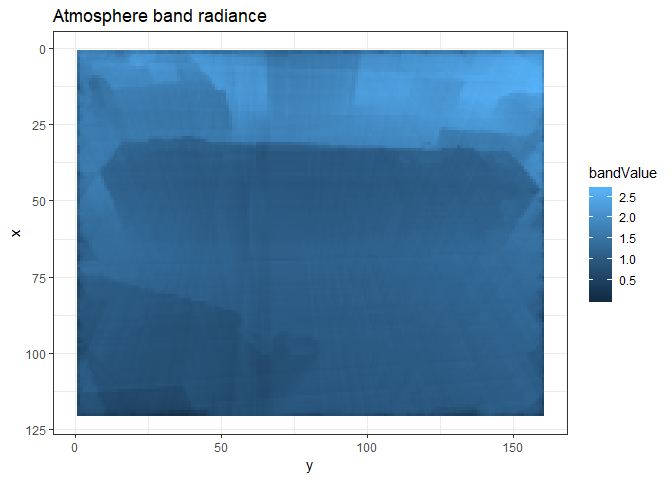
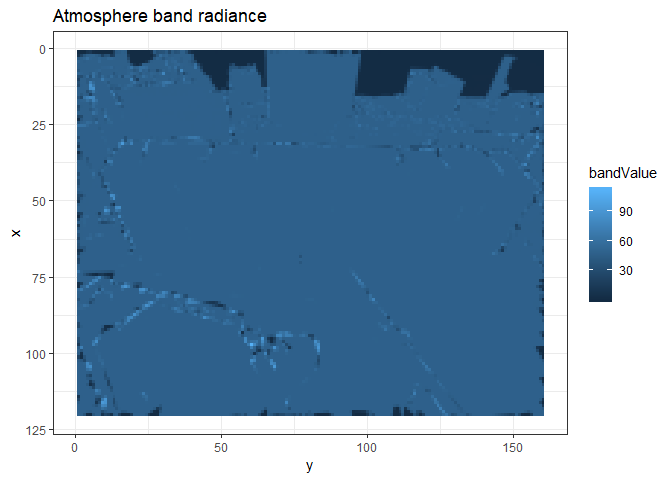
SRF

diff --git a/tutorials/Band-calculation/README.md b/tutorials/Band-calculation/README.md
@@ -13,7 +13,7 @@ sF_trans <- daRt::simulationFilter(product = "images", bands = integer(), iters 
                                    variables = "Tapp")
 sF_tapp <- sF_trans
 imageTypes(sF_tapp) <- "camera"
-typeNums(sF_tapp) <- "1_Fluid"
+typeNums(sF_tapp) <- ""# "1_Fluid"
 
 simData_transAtm <- daRt::getData(x = simDir, sF = sF_trans)
 simData_tappAtm <- daRt::getData(x = simDir, sF = sF_tapp)
@@ -26,7 +26,7 @@ radDF <- as.data.frame(simData_radAtm)
 
 Band calculation trapezoidal approximation:
 
-$$\int_{\lambda=1}^{\lambda=n} d\lambda~L_\lambda R_\lambda\approx\sum_{i=1}^n \frac{1}{2} \Bigg[\Big[\frac{1}{2}(\lambda_{max_{i}}-\lambda_{min_{i}}) \Big]\times (L_{\lambda_{i}}R_{min_{i}} + L_{\lambda_{i}}R_{mid_{i}}+L_{\lambda_{i}}R_{mid_{i}} + L_{\lambda_{i}}R_{max_{i}})\Bigg]$$
+$$\int_{\lambda=1}^{\lambda=n}d\lambda~L_\lambda R_\lambda\approx\sum_{i=1}^n \frac{1}{2} \Bigg[\Big[\frac{1}{2}(\lambda_{max_{i}}-\lambda_{min_{i}}) \Big]\times (L_{\lambda_{i}}R_{min_{i}}+ L_{\lambda_{i}}R_{mid_{i}}+L_{\lambda_{i}}R_{mid_{i}}+L_{\lambda_{i}}R_{max_{i}})\Bigg]$$
 
 Define the real world observations. This should be a data frame which has information that can relate to the model world observations. Namely: pixels (x, y), brightness temperature (value), the image type (imgType) and DART image number that models its perspective (imageNo). This way, each model world camera is matched to the correct real world camera.
 
@@ -40,7 +40,7 @@ The user should also have a spectral response function that spans the [DART simu
 
 
 ```r
-SRF_raw <- data.frame("lambda" = seq(5, 20, by = 1e-2), "value" = seq(1, 1, length.out = length(seq(5, 20, by = 1e-2))))
+SRF_raw <- read.table("README_files/data/SRF.txt", col.names = c("lambda", "value"))
 ```
 
 WIP. Tapp to spectral radiance
@@ -122,10 +122,9 @@ library(raster)
 ```
 
 ```r
-DARTbandCalc <- raster("README_files/figure-misc/camera_251_VZ=046_6_VA=261_1.tif")
-
-DARTbandCalcDF <- reshape2::melt(as.matrix(DARTbandCalc))
-colnames(DARTbandCalcDF) <- c("x", "y", "bandValue_DART")
+# DARTbandCalc <- raster("README_files/figure-misc/camera_251_VZ=046_6_VA=261_1.tif")
+# DARTbandCalcDF <- reshape2::melt(as.matrix(DARTbandCalc))
+# colnames(DARTbandCalcDF) <- c("x", "y", "bandValue_DART")
 SRF <- SRFinterp(SRF_raw = SRF_raw, simData = simData_radAtm)
 radAtmSpectral <- as.data.frame(simData_radAtm) %>%
   dplyr::left_join(wavelengths(simData_radAtm))
@@ -137,11 +136,12 @@ radAtmSpectral <- as.data.frame(simData_radAtm) %>%
 
 ```r
 radAtmBand <- getBandRadiance(spectralDF = radAtmSpectral, SRF = SRF)
+
 ggplot(radAtmSpectral %>% 
          group_by(lambdamid, add = TRUE) %>% 
-         summarise(valMin = quantile(value, 0.25),
+         summarise(valMin = quantile(value, 0.1),
                    valMid = quantile(value, 0.5), 
-                   valMax = quantile(value, 0.75))) +
+                   valMax = quantile(value, 0.9))) +
   geom_ribbon(aes(x = lambdamid, ymin = valMin, ymax = valMax), fill = "red") +
   geom_line(aes(x = lambdamid, y = valMid), colour = "black", size = 0.75)
 ```
@@ -160,12 +160,10 @@ ggplot(radAtmBand) +
 ![](README_files/figure-markdown_github/unnamed-chunk-9-2.png)
 
 ```r
-ggplot(DARTbandCalcDF) +
-  geom_raster(aes(x = x, y = y, fill = bandValue_DART)) +
-  theme_bw() +
-  coord_flip() +
-  scale_x_reverse() +
-  ggtitle("Atmosphere band radiance")
+# ggplot(DARTbandCalcDF) +
+#   geom_raster(aes(x = x, y = y, fill = bandValue_DART)) +
+#   theme_bw() +
+#   coord_flip() +
+#   scale_x_reverse() +
+#   ggtitle("Atmosphere band radiance")
 ```
-
-![](README_files/figure-markdown_github/unnamed-chunk-9-3.png)
